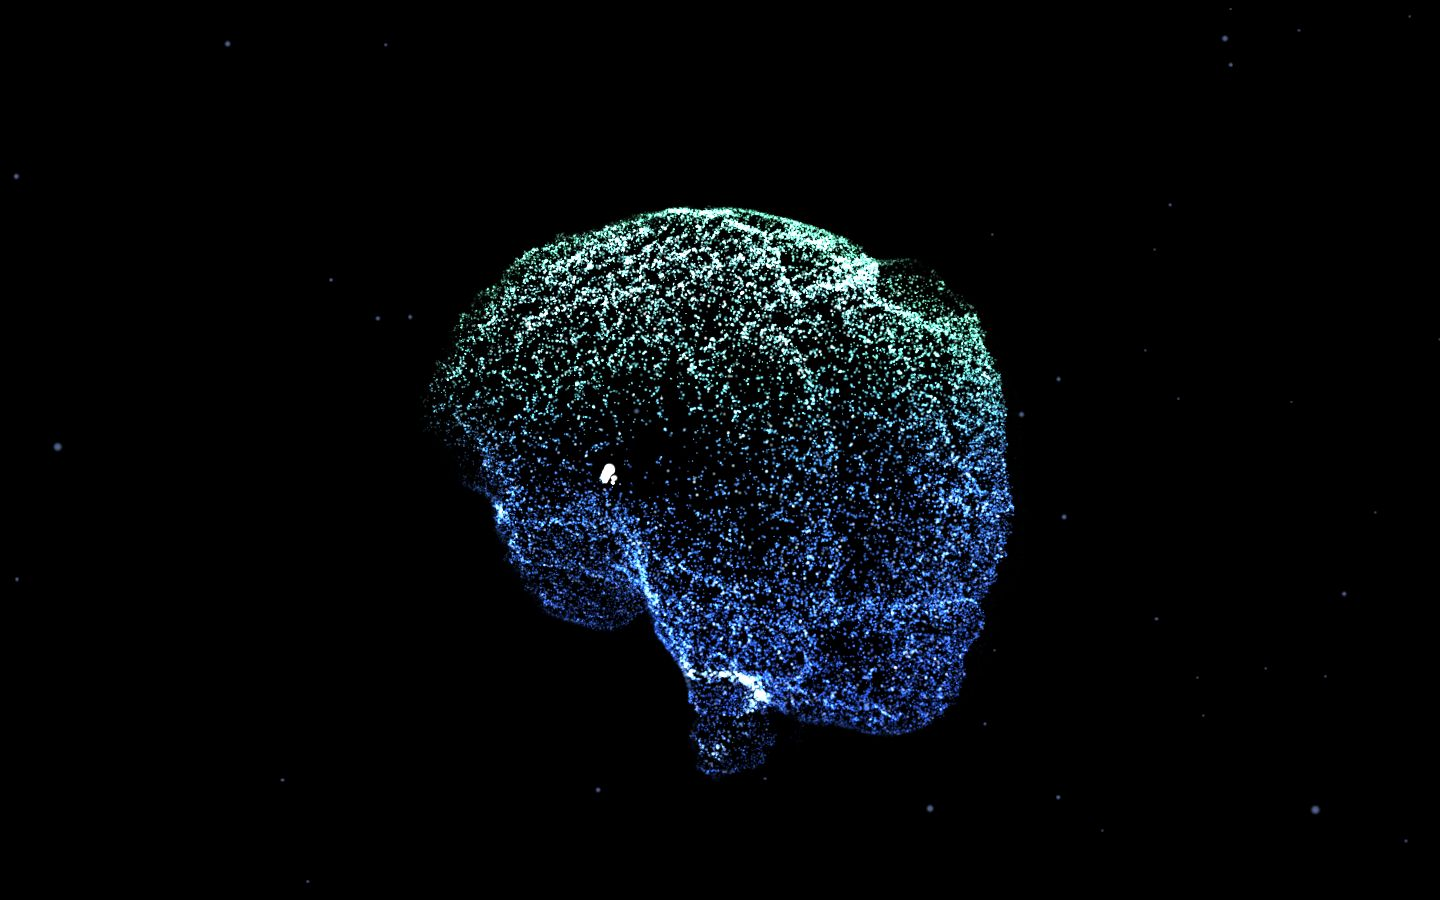
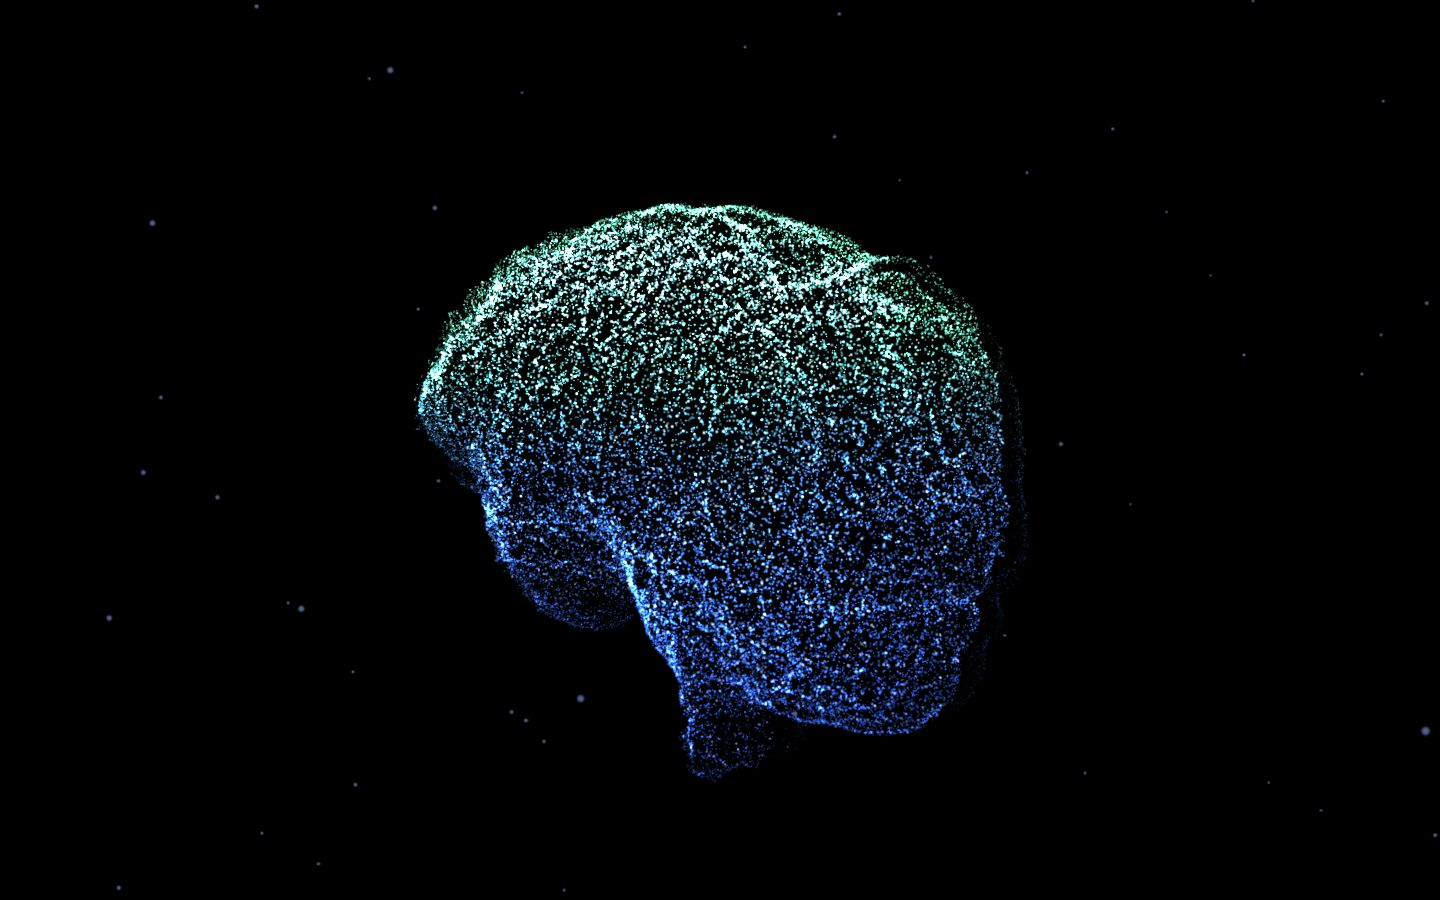
Cerebro: se lee como un objeto sólido (partículas en toda la silueta, cara trasera tenue en vez de invisible); se actualizan sus imágenes fijas

Changed region(s): [[0.2812, 0.2178, 0.7188, 0.8711]]

diff --git a/src/scripts/hero3d.js b/src/scripts/hero3d.js
@@ -164,21 +164,23 @@ export function initHero3D() {
       const x0 = x | 0, y0 = y | 0, tx = x - x0, ty = y - y0, i = y0 * W + x0;
       return (A[i] * (1 - tx) + A[i + 1] * tx) * (1 - ty) + (A[i + W] * (1 - tx) + A[i + W + 1] * tx) * ty;
     };
-    const S = 2.55 / (maxY - minY), cx = W / 2, cy = (minY + maxY) / 2, thick = 1.1;
+    const S = 2.55 / (maxY - minY), cx = W / 2, cy = (minY + maxY) / 2, thick = 1.2;   // grosor de cada hemisferio
     const cdf = new Float32Array(W * H); let acc = 0;
     for (let y = 0; y < H; y++) for (let x = 0; x < W; x++) {
       const i = y * W + x;
       // en los costados la superficie está de canto y ocupa pocos píxeles: se le dan más partículas para que no queden vacíos al girar
       const gx = (Z[y * W + Math.min(W - 1, x + 1)] - Z[y * W + Math.max(0, x - 1)]) * thick / (2 * S);
       const gy = (Z[Math.min(H - 1, y + 1) * W + x] - Z[Math.max(0, y - 1) * W + x]) * thick / (2 * S);
-      acc += D[i] > 0.04 && !outside[i] ? (0.1 + 0.9 * Math.pow(D[i], 1.5)) * Math.min(2.4, Math.sqrt(1 + gx * gx + gy * gy)) : 0;
+      // toda la silueta recibe partículas (también las zonas lisas del dibujo, como el lóbulo frontal): si no, esas zonas quedaban
+      // vacías y el cerebro parecía hueco; los surcos siguen marcándose porque reciben más
+      acc += !outside[i] ? (0.42 + 0.58 * Math.pow(D[i], 1.5)) * Math.min(1.5, Math.sqrt(1 + gx * gx + gy * gy)) : 0;
       cdf[i] = acc;
     }
     for (let n = 0; n < N2; n++) {
       const t = Math.random() * acc; let lo = 0, hi = W * H - 1;
       while (lo < hi) { const m = (lo + hi) >> 1; if (cdf[m] < t) lo = m + 1; else hi = m; }
       const fx = (lo % W) + Math.random() - 0.5, fy = ((lo / W) | 0) + Math.random() - 0.5;
-      const side = Math.random() < 0.8 ? 1 : -1;            // casi todas en la cara que se ve: la de atrás queda apagada
+      const side = Math.random() < 0.72 ? 1 : -1;            // más en la cara de delante, pero la de atrás también existe: se lee como un volumen cerrado
       const zf = sample(Z, fx, fy);
       // normal hacia fuera de la superficie (en la cara de atrás sólo cambia el sentido en profundidad)
       let nx = -(sample(Z, fx + 1.5, fy) - sample(Z, fx - 1.5, fy)) * thick / (3 * S);
@@ -375,7 +377,9 @@ export function initHero3D() {
         vec3 nb = xf(aN2, uTilt.z, uYaw.z, uRoll.z);
         vec3 vdir = normalize(cameraPosition - wp.xyz);
         float facing = dot(normalize(nb + vec3(1e-5)), vdir);
-        float vis = mix(1.0, 0.03 + 0.97*smoothstep(-0.05, 0.3, facing), w2);
+        // cerebro: la cara de atrás no desaparece del todo (se ve más tenue, como la parte lejana de un objeto sólido); si se apagaba
+        // del todo, al girar quedaba una franja vacía entre el borde y el cuerpo
+        float vis = mix(1.0, 0.16 + 0.84*smoothstep(-0.3, 0.3, facing), w2);
         // luz desde arriba a la izquierda: da volumen al cerebro (zonas iluminadas y en sombra)
         float lit = mix(1.0, 0.55 + 0.65 * max(dot(normalize(nb + vec3(1e-5)), normalize(vec3(-0.35, 0.55, 0.76))), 0.0), w2);
         float alive = aVis.x*w0 + aVis.y*w1 + aVis.z*w2;
